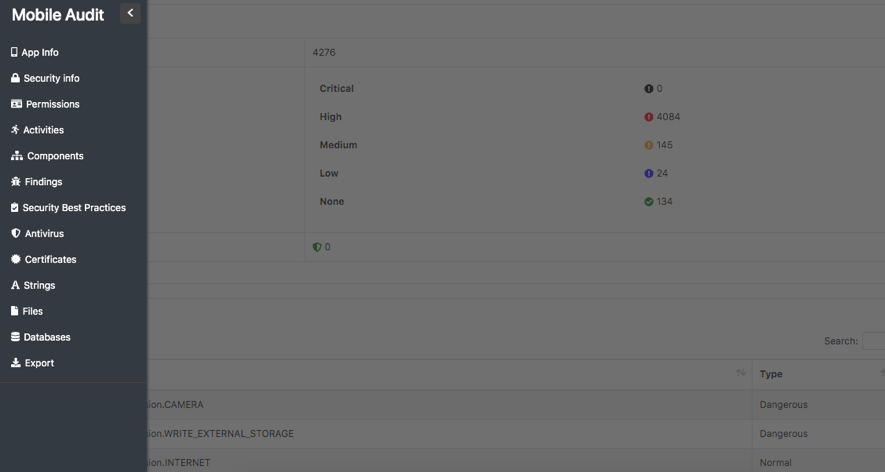
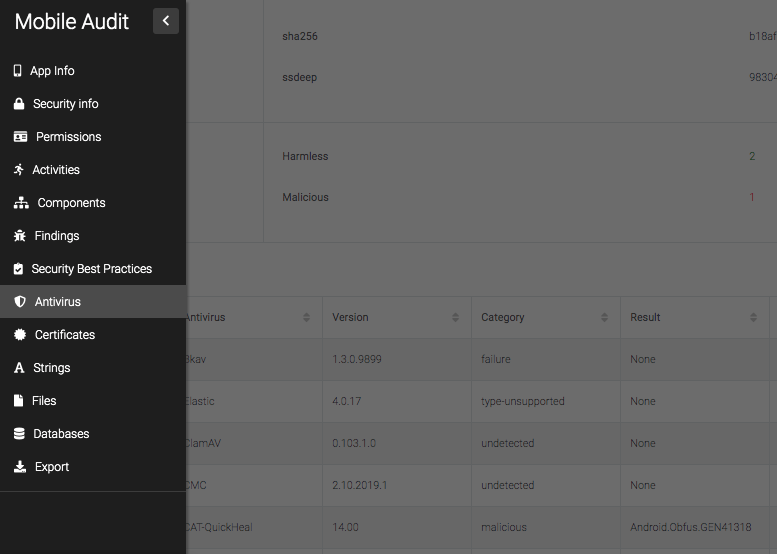
Updated to Version 2.0.0

diff --git a/index.md b/index.md
@@ -8,9 +8,12 @@ type: tool
 pitch: DevSecOps Tool to perform SAST and Malware analysis in Android APKs
 
 ---
-![Mobile Audit](/assets/images/mobile_audit.png)
+![Mobile Audit](assets/images/mobile_audit.png)
 
 ## Mobile Audit - Static Analysis and detecting malware in Android APKs
+
+
+![App](assets/images/app.png)
 
 ### Who is Mobile Audit for?
 
@@ -26,13 +29,32 @@ It is aimed to different user profiles:
 - System Administrators
 - Security Engineers
 
+In each of the scans, it would have the following information:
+
+* Application Info
+* Security Info
+* Components
+* SAST Findings
+* Best Practices Implemented
+* Virus Total Info
+* Certificate Info
+* Strings
+* Databases
+* Files
+
+![App](assets/images/scan.png)
+
+For easy access there is a sidebar on the left page of the scan:
+
+![Menu](assets/images/menu.png)
+
 ### Components
 
-![Schema](assets/images/schema.png)
+![Schema](assets/images/architecture.png)
 
-- **db**: PostgreSQL 13
-- **nginx**: Nginx 1.18.0
-- **rabbitmq**: RabbitMQ 3.8.11
+- **db**: PostgreSQL 13.2
+- **nginx**: Nginx 1.19.10
+- **rabbitmq**: RabbitMQ 3.8.14
 - **worker**: Celery 5.0.5
 - **web**: Mobile Audit App
 
@@ -48,7 +70,7 @@ It is aimed to different user profiles:
 - [x] User authentication and user management
 - [x] API v1 with Swagger and ReDoc
 - [x] TLS
-- [ ] Dynamic page reload
+- [x] Dynamic page reload (WIP)
 - [ ] Export to Markdown
 - [ ] Export to CSV
 - [ ] LDAP integration
@@ -63,23 +85,10 @@ It checks if there has been an scan of the APK and extract all its information. 
 
 It is possible to upload the findings to the defect manager.
 
-#### MalwareDB
+#### MalwareDB & Maltrail
 
 It checks in the database if there are URLs in the APK that are related with Malware.
 
-
-In each of the scans, it would have the following information:
-
-* Application Info
-* Security Info
-* Components
-* SAST Findings
-* Best Practices Implemented
-* Virus Total Info
-* Certificate Info
-* Strings
-* Databases
-* Files
 
 ## Contribution
 

diff --git a/info.md b/info.md
@@ -2,7 +2,7 @@
 * <i class="fas fa-tools" style="color:#233e81;"></i> Tool
 * <i class="fas fa-toolbox" style="color:#233e81;"></i> Builder
 * <i class="fas fa-shield-alt" style="color:#233e81;"></i> Defender
-* <i class="fas fa-code-branch" style="color:#233e81;"></i>  [Version 1.3.3](https://github.com/mpast/mobileAudit/releases/tag/1.3.3)
+* <i class="fas fa-code-branch" style="color:#233e81;"></i>  [Version 2.0.0](https://github.com/mpast/mobileAudit/releases/tag/2.0.0)
 
   
 ### Code Repository
